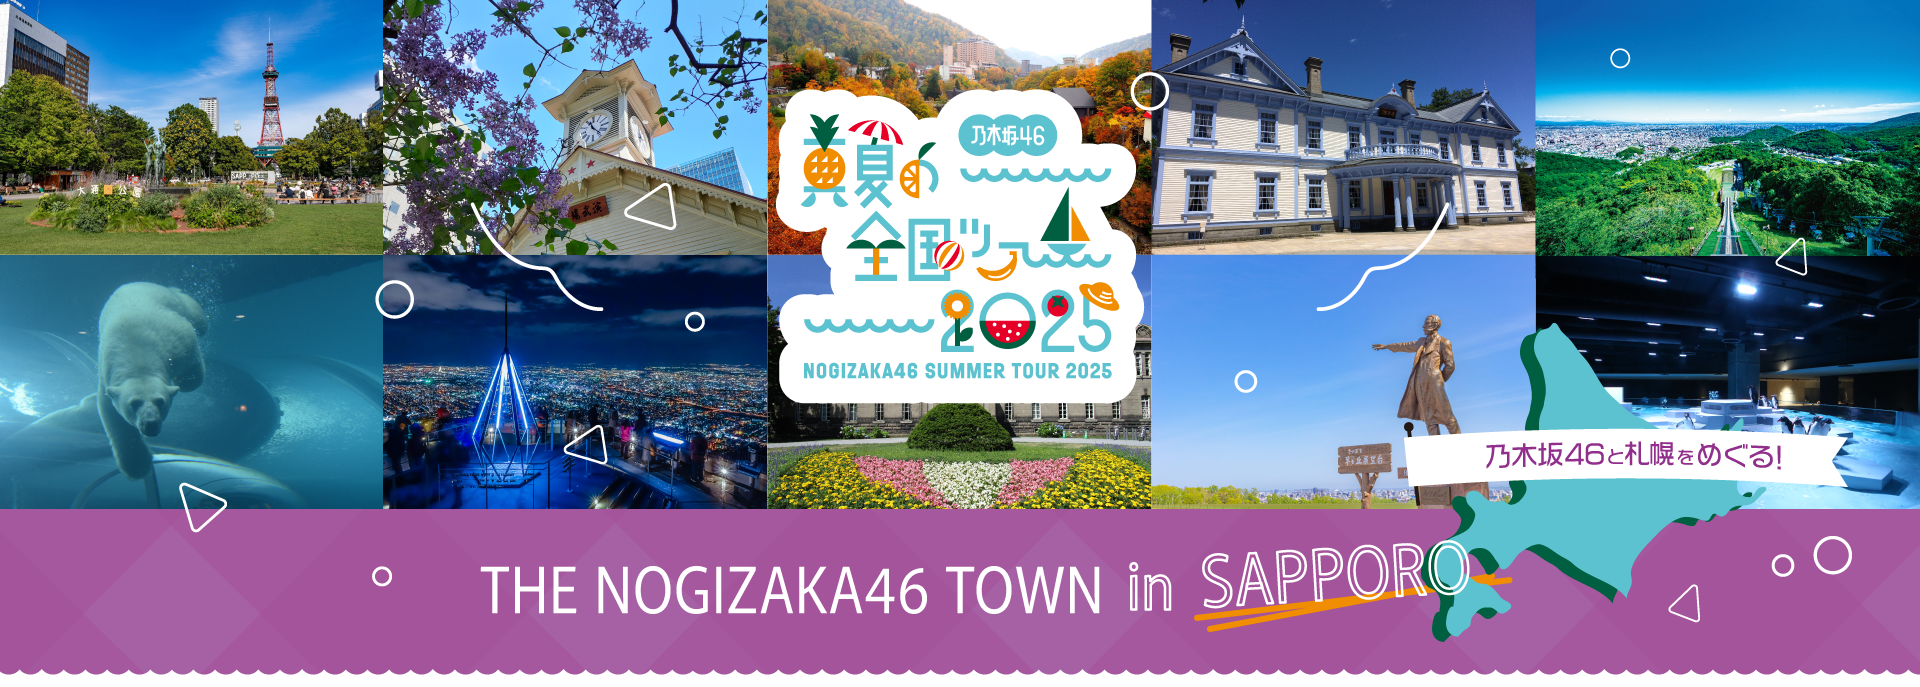
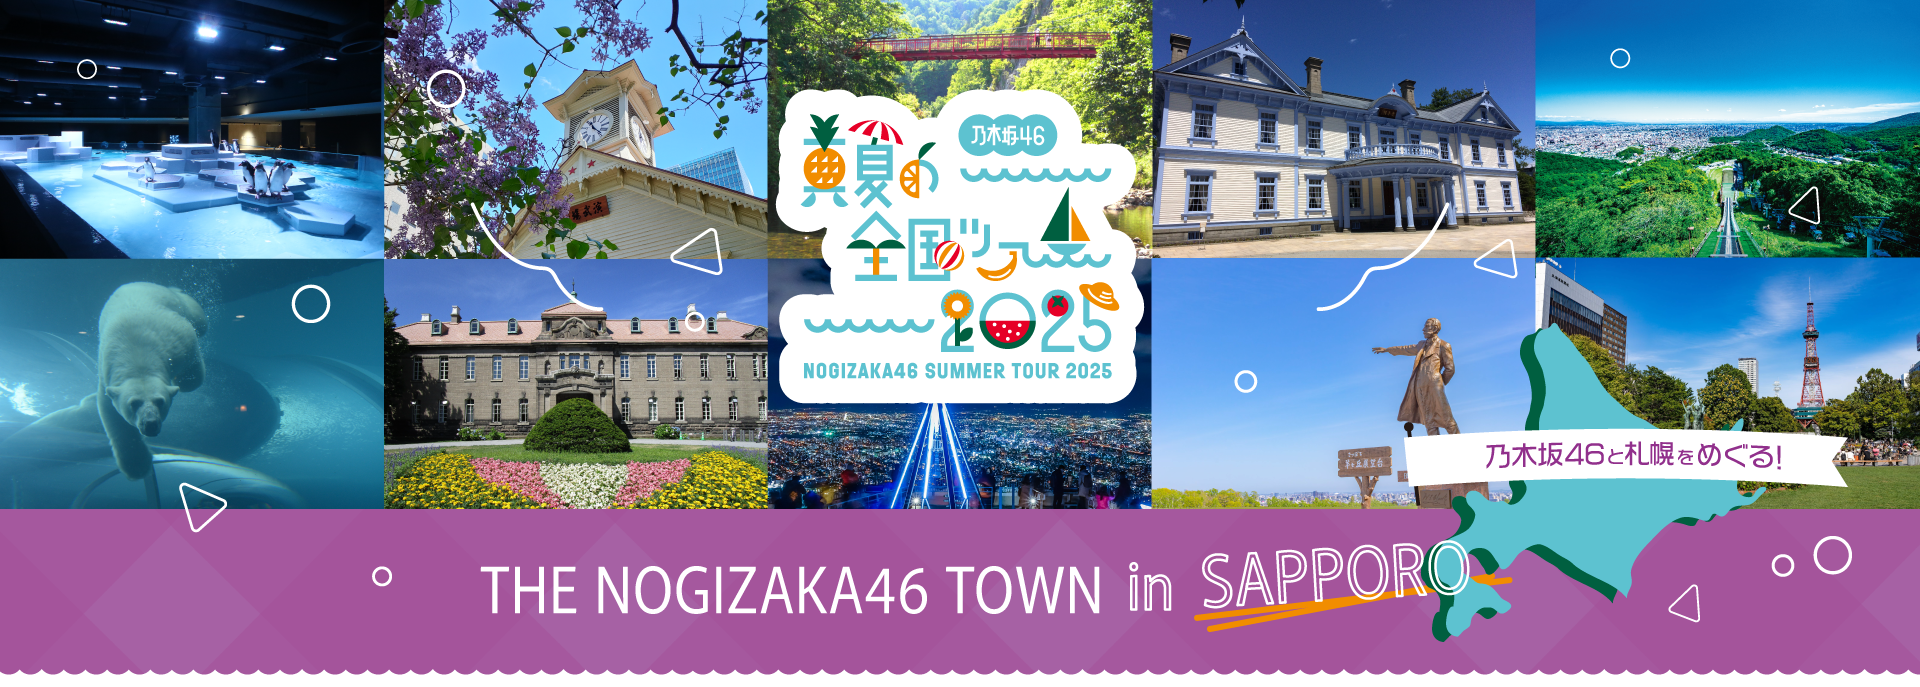
文言修正、画像の差し替え、画像サイズの調整

Changed region(s): [[0.0, 0.0, 1.0, 0.7642], [0.7188, 0.4585, 0.7812, 0.5502], [0.7188, 0.5808, 0.7812, 0.6419]]

diff --git a/index.html b/index.html
@@ -57,7 +57,7 @@
   </a>
 
   <header class="header">
-    <h1>
+    <h1 class="mg-b-m1">
       <picture>
         <source srcset="./common/img/top_bnr_sp.png" media="(max-width: 750px)">
         <img class="header__img" src="./common/img/top_bnr_pc.png" alt="　">
@@ -113,8 +113,8 @@
                     乃木坂46が彩る札幌の街をぜひお楽しみください！
                   </p>
                 </div>
-                <div class="mg-y-3">
-                  <img src="./common/img/snowvision.png" alt="">
+                <div class="mg-y-3 maxwd-500px">
+                  <img src="./common/img/snowvision.jpg" alt="">
                 </div>
                 <div class="modal">
                   <label class="modal-label tx-c" for="modal-trigger-members">観光地とコラボしたメンバーはこちら</label>
@@ -180,7 +180,7 @@
                     ※オリジナルデザインポストカードの種類はお選びいただけません。
 
                   </p>
-                  <p>さらに所定の条件を達成すると、抽選で「<span class="text-color-accent">★★★スペシャル特典★★★</span>」をプレゼント！</p>
+                  <p>さらに所定の条件を達成すると、抽選で「<span class="text-color-accent">★★★スペシャル特典★★★</span>」観光地コラボポスターメンバー直筆サイン入り施策B3ポスター（全10種）を合計20名様にプレゼント！</p>
                   <p>
                     コンサートチケットの有無にかかわらず、どなたでもご参加いただけます！<br>
                     詳細は下記からご確認ください。
@@ -338,7 +338,7 @@
                     <div class="prize__item prize__item--special">
                       <p class="prize__item-name"><span class="text-color-accent">■</span>応募可能期間</p>
                       <div class="prize__item-content">
-                        <p>2025年6月27日（金）0時0分0秒 ～9月30日（火）23時59分59秒</p>
+                        <p>2025年6月27日（金）00時00分00秒 ～9月30日（火）23時59分59秒</p>
                       </div>
                     </div>
 
@@ -421,7 +421,7 @@
                   aria-label="スタンプラリー詳細・参加登録（外部サイトが開きます）">
                   トレインスタンプラリー
                 </button>
-                <img class="stamprally__img stamprally__img--qr" alt="スタンプラリー詳細・参加登録ページQRコード"
+                <img class="stamprally__img stamprally__img--qr" alt="スタンプラリー詳細・参加登録ページ二次元コードコード"
                   src="./common/img/QR_TNT_sapporo2025.svg">
                 <p class="stamprally__text stamprally__text--center">
                   トレインスタンプラリーは、Androidまたは<span>iOSデバイスのみご利用いただけます</span></p>
@@ -451,7 +451,7 @@
                   <li>・スタンプ画像を取得するために、一時的に駅の改札を出入りすることはできません。改札を出る際は必ず精算していただき、再入場される際は改めて乗車券をご購入いただきますようお願いいたします。
                   </li>
                   <li>・特典の転売行為やスタンプ画像の不正取得は禁止とさせていただきます。</li>
-                  <li>・スタンプ画像を取得するためのQRを拡散する行為は禁止とさせていただきます。</li>
+                  <li>・スタンプ画像を取得するための二次元コードを拡散する行為は禁止とさせていただきます。</li>
                   <li>・個人間取引などに関するトラブルの責任は一切負いかねます。</li>
                   <li>・スペシャル特典お申込みに際して、不正な行為があったと当事務局が判断した場合、事前に通知することなくお申込みを無効または取り消しとさせて頂くことがございます。あらかじめご了承ください。</li>
                   <li>・インターネット通信料・接続料はお客様の負担となります。</li>

diff --git a/common/css/style.css b/common/css/style.css
@@ -57,7 +57,7 @@ summary::-webkit-details-marker {
 }
 
 .text-color-link {
-  color: #008803;
+  color: #894395;
 }
 
 .inline-block {
@@ -68,7 +68,7 @@ summary::-webkit-details-marker {
 /* header */
 .header {
   width: 100%;
-  display: flex;
+  /* display: flex; */
   justify-content: center;
 }
 
@@ -78,7 +78,7 @@ summary::-webkit-details-marker {
 
 /* main-container */
 .main-container {
-  background-color: #894395;
+  background-color: #f7f0f9;
   padding-bottom: 50px;
   width: 100%;
 }
@@ -1226,11 +1226,6 @@ summary::-webkit-details-marker {
   padding: 2% 0;
 }
 
-.bg-palepurple {
-  background-color: #F3E6FF;
-}
-
-
 /* .mg-left-1 {
   margin-left: 1%;
 } */
@@ -1351,11 +1346,15 @@ body.modal-open {
 
 /* ========== 補助クラス ========== */
 .bg-palepurple {
-  background-color: #F3E6FF;
+  background-color: #f7f0f9;
 }
 
 .pd-y-2 {
   padding: 2% 0;
+}
+
+.maxwd-500px {
+  max-width: 500px;
 }
 
 .maxwd-800px {
@@ -1378,7 +1377,7 @@ body.modal-open {
 /* ========== ラベルスタイル例 ========== */
 .modal-label {
   display: inline-block;
-  color: #008803;
+  color: #894395;
   text-decoration: underline;
   cursor: pointer;
   margin: 10px 0;
@@ -1387,7 +1386,7 @@ body.modal-open {
 }
 
 .modal-label:hover {
-  color: #008803;
+  color: #894395;
 }
 
 .tx-c {
@@ -1415,4 +1414,8 @@ body.modal-open {
 
 .fontsize-11em {
   font-size: 1.1em;
+}
+
+.mg-b-m1 {
+  margin-bottom: -1%;
 }
